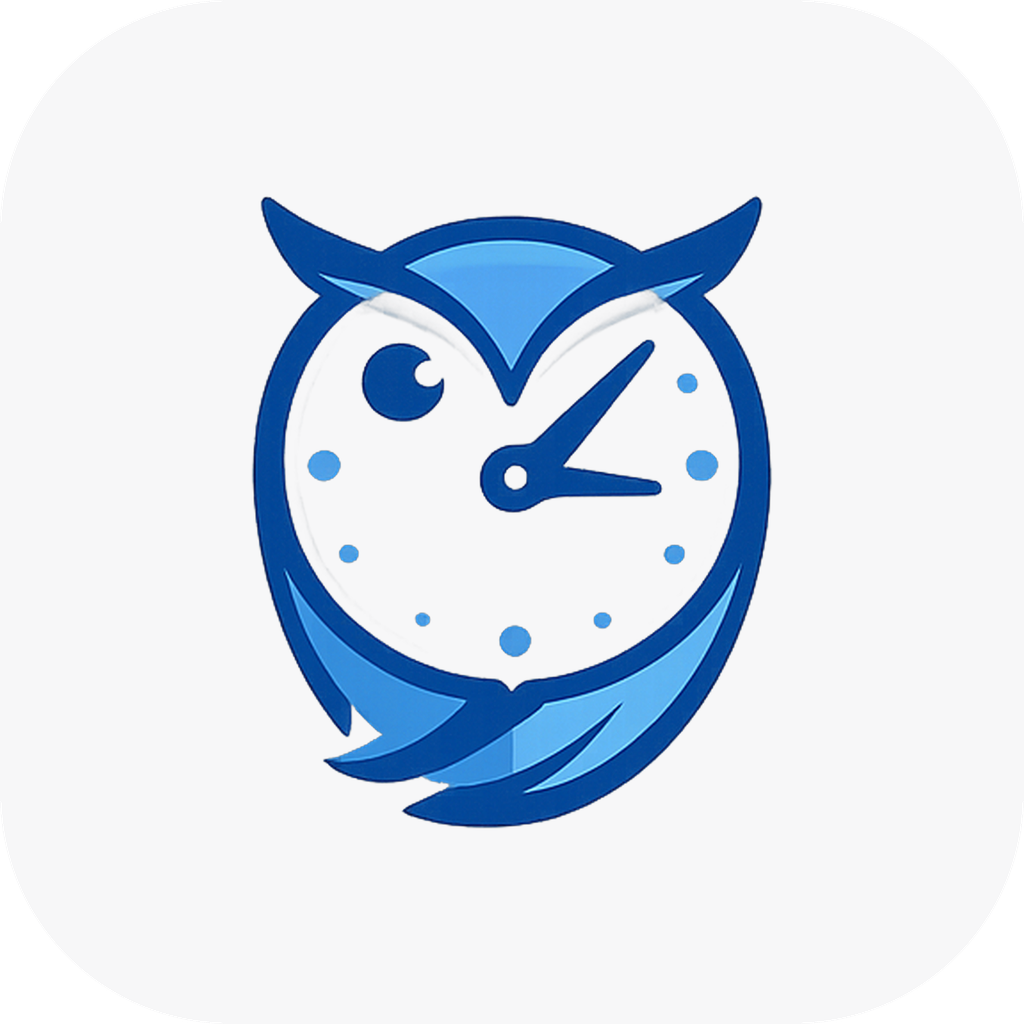
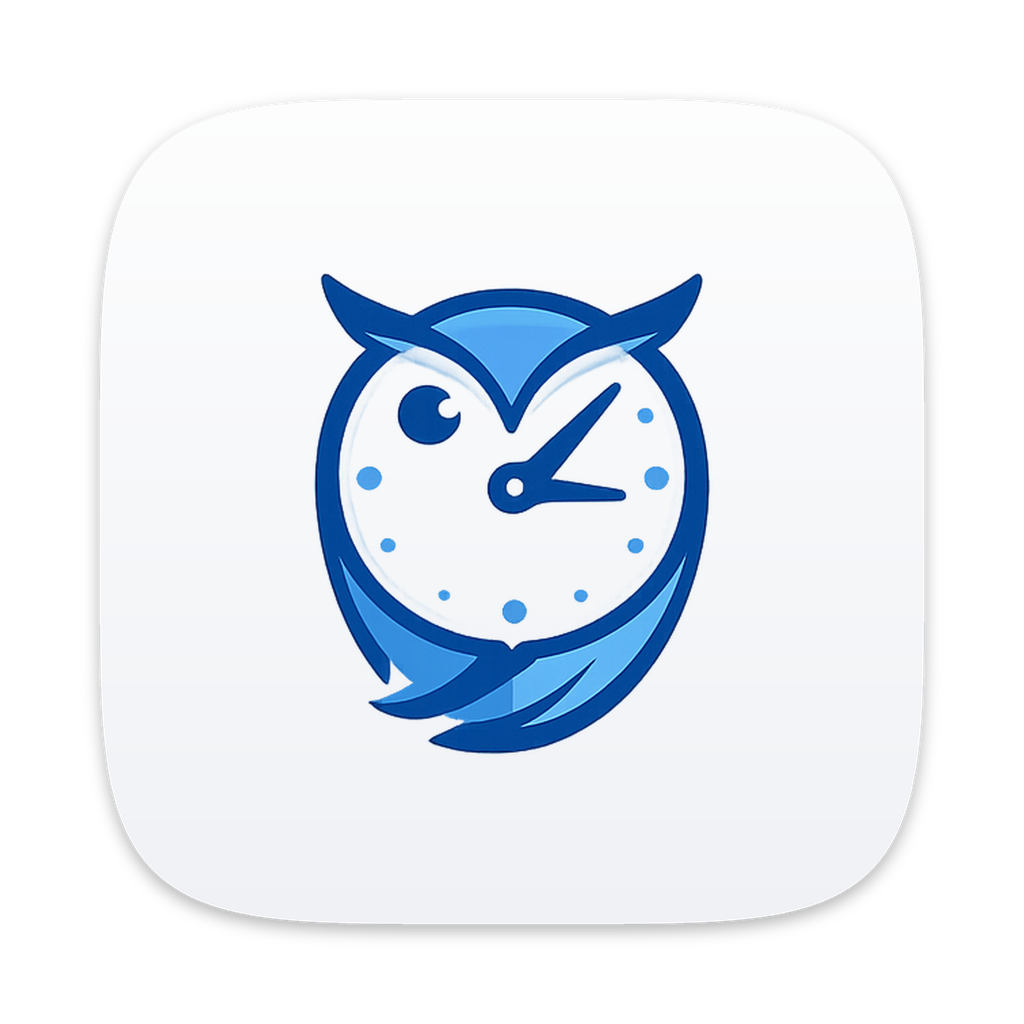
feat: macOS 图标重制——白盘内缩 80%、超椭圆 squircle、接触式投影

diff --git a/scripts/make-icon.py b/scripts/make-icon.py
@@ -1,12 +1,14 @@
 #!/usr/bin/env python
-"""生成 macOS 风格圆角矩形应用图标。
+"""生成 macOS 风格应用图标（白盘内缩 + 超椭圆 squircle + 接触式投影）。
 
 用法：
-    .venv/bin/python scripts/make-icon.py <输出.png> [--base #181d26] [--scale 0.62]
+    uv run --with pillow --with numpy python scripts/make-icon.py <输出.png>
 
-底板为 1024×1024 圆角矩形（半径约 22.37%，贴 macOS squircle 观感），
-猫头鹰图形取 build-resources/icon.png（已带透明通道），居中缩放到 --scale 比例。
-4 倍超采样绘制后降采样，保证边缘抗锯齿。
+构图（1024×1024 画布，4 倍超采样绘制后降采样）：
+  - 白色 squircle 底板内缩至 80.5%（Apple HIG 图标网格安全区），
+    底板用超椭圆（n≈5）近似 Apple 连续曲率，而非圆弧圆角矩形；
+  - 底板带极浅纵向渐变（顶部受光）与底部接触式投影；
+  - 猫头鹰图形取 frontend/public/brand/mark.png，居中，占底板高度 60%。
 """
 
 from __future__ import annotations
@@ -14,50 +16,96 @@ from __future__ import annotations
 import argparse
 from pathlib import Path
 
-from PIL import Image, ImageDraw
+import numpy as np
+from PIL import Image, ImageChops, ImageDraw, ImageFilter
 
 SIZE = 1024
 SUPER = 4  # 超采样倍数
-RADIUS_RATIO = 0.2237  # macOS 圆角矩形半径约占边长 22.37%
+CANVAS = SIZE * SUPER
+
+PLATE_RATIO = 0.805   # 底板占画布比例（HIG 安全区）
+SQUIRCLE_N = 5.0      # 超椭圆指数，近似 Apple 连续曲率 squircle
+OWL_IN_PLATE = 0.60   # 猫头鹰占底板高度比例
+
+# A4 定稿投影参数：紧、下移、接触式托底
+SHADOW_BLUR = 8 * SUPER
+SHADOW_DY = 6 * SUPER
+SHADOW_ALPHA = 80     # ~31%
 
 ROOT = Path(__file__).resolve().parent.parent
-GLYPH = ROOT / "build-resources" / "icon.png"
+OWL = ROOT / "frontend/public/brand/mark.png"
 
 
-def make_icon(output: Path, base: str, scale: float) -> None:
-    canvas = SIZE * SUPER
-    radius = int(canvas * RADIUS_RATIO)
+def squircle_mask(size: int, ratio: float) -> Image.Image:
+    """居中的超椭圆蒙版（L 模式），边长 = size*ratio。"""
+    side = int(size * ratio)
+    mask = Image.new("L", (size, size), 0)
+    # 超椭圆参数方程：x = a·sign(cos t)·|cos t|^(2/n)
+    t = np.linspace(0, 2 * np.pi, 1440)
+    a = side / 2
+    exp = 2.0 / SQUIRCLE_N
+    x = a * np.sign(np.cos(t)) * np.abs(np.cos(t)) ** exp + size / 2
+    y = a * np.sign(np.sin(t)) * np.abs(np.sin(t)) ** exp + size / 2
+    ImageDraw.Draw(mask).polygon(list(zip(x, y)), fill=255)
+    return mask
 
-    board = Image.new("RGBA", (canvas, canvas), (0, 0, 0, 0))
-    draw = ImageDraw.Draw(board)
-    draw.rounded_rectangle((0, 0, canvas - 1, canvas - 1), radius=radius, fill=base)
 
-    glyph = Image.open(GLYPH).convert("RGBA")
-    bbox = glyph.getbbox()
-    if bbox:
-        glyph = glyph.crop(bbox)
-    target = int(canvas * scale)
-    ratio = target / max(glyph.size)
-    glyph = glyph.resize(
-        (int(glyph.width * ratio), int(glyph.height * ratio)),
-        Image.LANCZOS,
+def vgrad(size: int, top: tuple, bottom: tuple) -> Image.Image:
+    """垂直线性渐变 RGB 图。"""
+    t = np.linspace(0, 1, size, dtype=np.float32)[:, None]
+    arr = np.zeros((size, size, 3), dtype=np.uint8)
+    for i in range(3):
+        arr[..., i] = (top[i] + (bottom[i] - top[i]) * t).astype(np.uint8)
+    return Image.fromarray(arr, "RGB")
+
+
+def make_icon(output: Path) -> None:
+    board = Image.new("RGBA", (CANVAS, CANVAS), (0, 0, 0, 0))
+
+    # 底板投影（接触式）
+    shadow = Image.new("RGBA", (CANVAS, CANVAS), (0, 0, 0, 0))
+    shadow.putalpha(squircle_mask(CANVAS, PLATE_RATIO).point(
+        lambda v: v * SHADOW_ALPHA // 255))
+    shadow = shadow.filter(ImageFilter.GaussianBlur(SHADOW_BLUR))
+    board.alpha_composite(shadow, (0, SHADOW_DY))
+
+    # 渐变底板
+    plate = vgrad(CANVAS, (255, 255, 255), (238, 240, 244)).convert("RGBA")
+    plate.putalpha(squircle_mask(CANVAS, PLATE_RATIO))
+    board.alpha_composite(plate)
+
+    # 顶部 1px 高光（上边缘亮线）
+    edge = ImageChops.subtract(
+        squircle_mask(CANVAS, PLATE_RATIO),
+        squircle_mask(CANVAS, PLATE_RATIO - 0.004),
     )
-    offset = ((canvas - glyph.width) // 2, (canvas - glyph.height) // 2)
-    board.alpha_composite(glyph, offset)
+    top_half = Image.new("L", (CANVAS, CANVAS), 0)
+    ImageDraw.Draw(top_half).rectangle((0, 0, CANVAS, CANVAS // 2), fill=255)
+    edge = ImageChops.multiply(edge, top_half)
+    highlight = Image.new("RGBA", (CANVAS, CANVAS), (255, 255, 255, 0))
+    highlight.putalpha(edge.point(lambda v: v * 60 // 255))
+    board.alpha_composite(highlight)
+
+    # 猫头鹰
+    owl = Image.open(OWL).convert("RGBA")
+    owl = owl.crop(owl.getbbox())
+    target_h = int(CANVAS * PLATE_RATIO * OWL_IN_PLATE)
+    ratio = target_h / owl.height
+    owl = owl.resize((int(owl.width * ratio), target_h), Image.LANCZOS)
+    board.alpha_composite(
+        owl, ((CANVAS - owl.width) // 2, (CANVAS - owl.height) // 2))
 
     icon = board.resize((SIZE, SIZE), Image.LANCZOS)
     output.parent.mkdir(parents=True, exist_ok=True)
     icon.save(output)
-    print(f"已生成 {output}（底板 {base}，图形占比 {scale:.0%}）")
+    print(f"已生成 {output}")
 
 
 def main() -> None:
     parser = argparse.ArgumentParser()
     parser.add_argument("output", type=Path)
-    parser.add_argument("--base", default="#181d26", help="底板颜色，默认近黑")
-    parser.add_argument("--scale", type=float, default=0.62, help="图形占边长比例")
     args = parser.parse_args()
-    make_icon(args.output, args.base, args.scale)
+    make_icon(args.output)
 
 
 if __name__ == "__main__":
